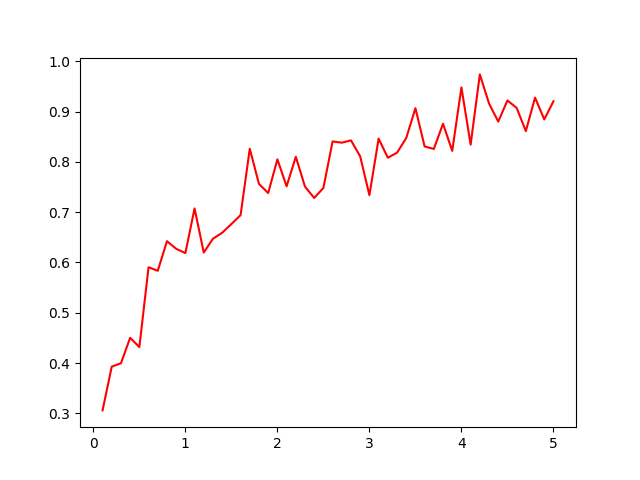
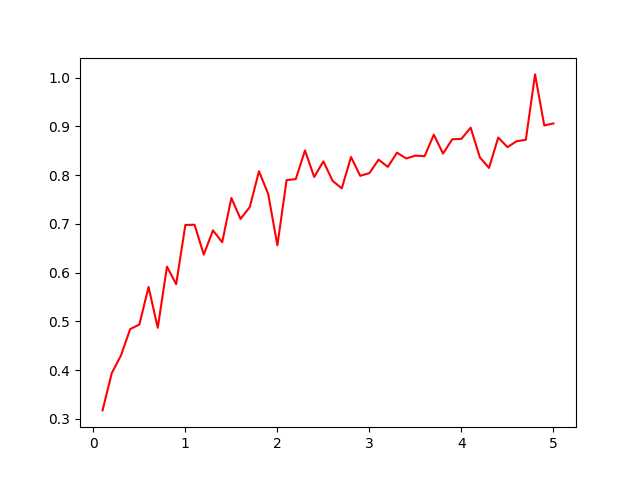
Lab 4 lambda choosing plots are updated

diff --git a/lab4/lab.py b/lab4/lab.py
@@ -219,68 +219,68 @@ wt = [w0.transpose(), w1.transpose()]
 
 
 # ------------        best lambda        ---------
-# best_lambda 0.03, min_error 0.2242020781798844
-# best_lambda 0.14, max_success_rate 97.98
-# m = x.shape[0]
-# lambdas = np.linspace(0.01, 0.5, 50)
-# errors = []
-# success_rates = []
-# yoh = to_one_hot(y, 10)
-# for l in lambdas:
-# 	rand_w = [build_randomized_weights(w0.shape), build_randomized_weights(w1.shape)]
-# 	unrolled_w = unroll(rand_w)
-# 	unrolled_optimal_w, error, func_calls, grad_calls, warnflag = optimize.fmin_cg(maxiter=50, f=cost, x0=unrolled_w, fprime=back_propagation, args=(x, yoh, l), disp=True, full_output=true)
-# 	optimal_w = from_unrolled(unrolled_optimal_w, weight_sizes)
-# 	errors.append(error)
-#
-# 	optimal_wt = [optimal_w[0].transpose(), optimal_w[1].transpose()]
-# 	output = hypothesis(x, optimal_wt)
-# 	predictions = [np.argmax(probabilities) + 1 for probabilities in output]
-#
-# 	success_count = 0
-# 	m = x.shape[0]
-# 	for i in range(m):
-# 		prediction_i = predictions[i]
-# 		yi = y[i, 0]
-# 		if yi == prediction_i:
-# 			success_count += 1
-#
-# 	success_rates.append(((success_count / m)*100))
-#
-# best_lambda_index = np.argmin(errors)
-# best_lambda = lambdas[best_lambda_index]
-# min_error = errors[best_lambda_index]
-# print("best_lambda %s, min_error %s" % (best_lambda, min_error))
-# plt.plot(lambdas, errors, c="r")
-# plt.show()
-# best_lambda_index_by_success_rate = np.argmax(success_rates)
-# best_lambda = lambdas[best_lambda_index_by_success_rate]
-# max_success_rate = success_rates[best_lambda_index_by_success_rate]
-# print("best_lambda %s, max_success_rate %s" % (best_lambda, max_success_rate))
-# plt.plot(lambdas, success_rates, c="r")
-# plt.show()
+# best_lambda 0.01, min_error 0.22414151001198537
+# best_lambda 0.42000000000000004, max_success_rate 97.74000000000001
+m = x.shape[0]
+lambdas = np.linspace(0.01, 0.5, 50)
+errors = []
+success_rates = []
+yoh = to_one_hot(y, 10)
+for l in lambdas:
+	rand_w = [build_randomized_weights(w0.shape), build_randomized_weights(w1.shape)]
+	unrolled_w = unroll(rand_w)
+	unrolled_optimal_w, error, func_calls, grad_calls, warnflag = optimize.fmin_cg(maxiter=50, f=cost, x0=unrolled_w, fprime=back_propagation, args=(x, yoh, l), disp=True, full_output=true)
+	optimal_w = from_unrolled(unrolled_optimal_w, weight_sizes)
+	errors.append(error)
+
+	optimal_wt = [optimal_w[0].transpose(), optimal_w[1].transpose()]
+	output = hypothesis(x, optimal_wt)
+	predictions = [np.argmax(probabilities) + 1 for probabilities in output]
+
+	success_count = 0
+	m = x.shape[0]
+	for i in range(m):
+		prediction_i = predictions[i]
+		yi = y[i, 0]
+		if yi == prediction_i:
+			success_count += 1
+
+	success_rates.append(((success_count / m)*100))
+
+best_lambda_index = np.argmin(errors)
+best_lambda = lambdas[best_lambda_index]
+min_error = errors[best_lambda_index]
+print("best_lambda %s, min_error %s" % (best_lambda, min_error))
+plt.plot(lambdas, errors, c="r")
+plt.show()
+best_lambda_index_by_success_rate = np.argmax(success_rates)
+best_lambda = lambdas[best_lambda_index_by_success_rate]
+max_success_rate = success_rates[best_lambda_index_by_success_rate]
+print("best_lambda %s, max_success_rate %s" % (best_lambda, max_success_rate))
+plt.plot(lambdas, success_rates, c="r")
+plt.show()
 #------------        best lambda        ---------
 
 
 
 # ------------        visualize        ---------
-yoh = to_one_hot(y, 10)
-rand_w = [build_randomized_weights(w0.shape), build_randomized_weights(w1.shape)]
-unrolled_w = unroll(rand_w)
-unrolled_optimal_w = optimize.fmin_cg(maxiter=50, f=cost, x0=unrolled_w, fprime=back_propagation, args=(x, yoh, 75), disp=True)
-optimal_w = from_unrolled(unrolled_optimal_w, weight_sizes)
-
-optimal_wt = [optimal_w[0].transpose(), optimal_w[1].transpose()]
-output = hypothesis(x, optimal_wt)
-predictions = [np.argmax(probabilities) + 1 for probabilities in output]
-
-success_count = 0
-m = x.shape[0]
-for i in range(m):
-	prediction_i = predictions[i]
-	yi = y[i, 0]
-	if yi == prediction_i:
-		success_count += 1
-print("success rate: %s" % ((success_count / m)*100))
-visualize(optimal_w[0][:, 1:])
+# yoh = to_one_hot(y, 10)
+# rand_w = [build_randomized_weights(w0.shape), build_randomized_weights(w1.shape)]
+# unrolled_w = unroll(rand_w)
+# unrolled_optimal_w = optimize.fmin_cg(maxiter=50, f=cost, x0=unrolled_w, fprime=back_propagation, args=(x, yoh, 75), disp=True)
+# optimal_w = from_unrolled(unrolled_optimal_w, weight_sizes)
+#
+# optimal_wt = [optimal_w[0].transpose(), optimal_w[1].transpose()]
+# output = hypothesis(x, optimal_wt)
+# predictions = [np.argmax(probabilities) + 1 for probabilities in output]
+#
+# success_count = 0
+# m = x.shape[0]
+# for i in range(m):
+# 	prediction_i = predictions[i]
+# 	yi = y[i, 0]
+# 	if yi == prediction_i:
+# 		success_count += 1
+# print("success rate: %s" % ((success_count / m)*100))
+# visualize(optimal_w[0][:, 1:])
 # ------------        visualize        ---------
